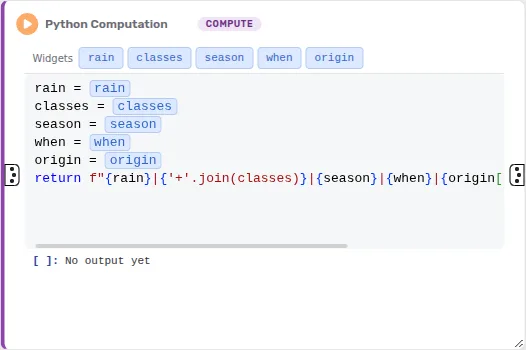
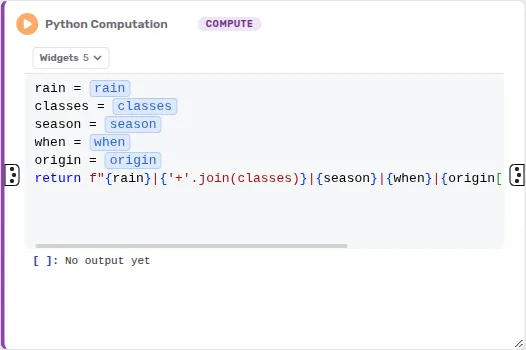
Chip row as the final header shows it: closed categories, a line per input, open lists, and re-cut stills

Changed region(s): [[0.0608, 0.1143, 0.6996, 0.2]]

diff --git a/site/scenarios.md b/site/scenarios.md
@@ -8,6 +8,7 @@ deeper:
   - { doc: docs/USAGE.md, anchor: scenarios, label: "Scenarios in the usage guide" }
   - { doc: docs/USAGE.md, anchor: the-interaction-node, label: "The Interaction node" }
   - { doc: docs/USAGE.md, anchor: comparing-scenarios, label: "Comparing scenarios" }
+  - { doc: docs/USAGE.md, anchor: several-inputs, label: "Several inputs and their chips" }
   - { doc: docs/USAGE.md, anchor: every-input-in-one-dataset, label: "Every input in one dataset" }
   - { doc: docs/USAGE.md, anchor: scenario-colors-and-order, label: "Scenario colors and order" }
   - { doc: docs/examples/06-back-bay-road-sunlight.md, label: "Example 06: Back Bay road sunlight when buildings change" }
@@ -107,11 +108,17 @@ The boxes come in the order the dataflow lists them. An input from no box comes 
 
 ## The chips above the spec
 
-Above a node's code or spec, one row lists every chip the node can use, by category, each with its count: **Inputs**, **Scenarios**, **Widgets**, **Selections** and **Shared**. A category shows only when it has chips. The categories start closed: click one to list its chips under the row, and click it again to close it. Several can be open, and a category stays open while the dataflow is open. Drag a chip's tag into the code or spec, or click it to put the chip at the cursor.
+Above a node's code or spec, one row lists every chip the node can use, by category, each with its count: **Inputs**, **Scenarios**, **Widgets**, **Selections** and **Shared**. A category shows only when it has chips. The categories start closed, each with a chevron pointing down. Click one to list its chips under the row, and its chevron points up; click it again to close it. Several can be open, and a category stays open on that node while the dataflow is open. On the canvas, the row and its open chips take at most half of the node's editor, and the chips scroll past that. Drag a chip's tag into the code or spec, or click it to put the chip at the cursor.
 
-- **Inputs:** a tag for each input, `input_0`, `input_1` and so on, whose arrow lists its columns once the node feeding it has run. In a Vega-Lite spec with an input, also the **inputs** tag, whose arrow lists the fields of the stacked rows, `scenario_name`, `scenario` and `__input__` first.
+- **Inputs:** a line for each input, `input_0`, `input_1` and so on, in circle order. In a Vega-Lite spec, the line of **inputs**, the stacked rows, comes last.
 - **Scenarios:** on a node with an input from a scenario box. In a Vega-Lite spec, first the boxes' swatches with their names, the tag of `[!! scenario colors !!]`, then **text colors** and **order**. In a Vega-Lite or Autark spec, a tag for each input, such as **input_1 ■ Twice as tall**, in the color its chip writes.
 - **Widgets**, **Selections** and **Shared:** the node's [widgets](/widgets/), its [selection tags](/widgets/#hand-a-node-what-you-selected) and the Parameter nodes' values.
+
+A line of **Inputs** holds a square button, the input's tag, and where the input comes from: its scenario box, or else the kind of node that feeds it. Once that node has run, the line also says what the input holds, such as **from Existing: 5 columns**, **from Autark: 5 layers** or **from Python Computation: 2 values, a tuple**. The line of **inputs** names the inputs it stacks and, once they have run, how many fields their rows carry, such as **input_0 and input_1, stacked: 8 fields**.
+
+Click a line's square button to open its list, indented under the line, and click it again to close it. An input's list holds its columns, and the list of **inputs** the fields of the stacked rows, `scenario_name`, `scenario` and `__input__` first. An input with layers, such as an Autark node's tables, lists a line for each layer: the layer's tag, then its columns, or **no columns**. Drag a column's tag where a column name goes. Several lists can be open, and each stays open on its node while the dataflow is open.
+
+<GuideFigure src="/media/scenarios/input-lines.webp" alt="A Vega-Lite chart's Inputs open, with input_0's columns listed under its line" caption="A Vega-Lite chart fed from a Data Pool, with Inputs open. The line of input_0 reads from Data Pool: 3 columns, and its list, open under it, holds geometry, accessibility and neighborhood_name. The line of inputs, input_0, stacked: 5 fields, comes last, closed." :w="526" :h="350" />
 
 A node with no input from a box has no **Scenarios**, and the hover of a scenario chip in its spec says what the chip writes there. On a node with no input, `[!! inputs !!]` is red until you connect one. `[!! inputs !!]` and the scenario chips are for specs: Python and JavaScript code takes neither.
 

diff --git a/site/widgets.md b/site/widgets.md
@@ -20,7 +20,7 @@ A widget is a value a node's code reads that you set in a form instead of in the
 
 1. Open the node's **Widgets** tab (the toolbox icon in its header) and click **Add widget**.
 2. Give it a name (letters, digits and underscores), a type, a label and a default. A choice, a checkbox group or a multi-select also takes its choices, and a number or a slider takes a minimum, a maximum, a step and units.
-3. Drag the widget's tag from the strip above the code into the code, or click the tag to put it at the cursor. It shows as a chip; point at the chip to see the value it stands for.
+3. Above the code or spec, click the **Widgets** category to list the tags of the node's widgets. Drag the widget's tag into the code, or click the tag to put it at the cursor. It shows as a chip; point at the chip to see the value it stands for.
 4. Set the value in the **Widgets** tab and run the node.
 
 <GuideFigure src="/media/widgets/add-widget.webp" alt="The Add widget form of a Python node" caption="The Add widget form for a slider labelled Rain: its type, label, minimum, maximum, step, units and default." :w="526" :h="350" />
@@ -31,7 +31,7 @@ A widget is a number, a slider, a text, a choice (a dropdown or radio buttons), 
 
 When the node runs, each chip is replaced by its value, written in the code's language: a season chip runs as `"winter"` in Python, and an opacity chip as `0.5` in a Vega-Lite spec. Inside a quoted text, a chip becomes the value's text. The code saves a chip as `[!! name !!]`.
 
-<GuideFigure src="/media/widgets/code-chips.webp" alt="Widget tags above a node's code and chips inside it" caption="Each widget's tag in the strip above the code, and the same widgets as chips in the code." :w="526" :h="350" />
+<GuideFigure src="/media/widgets/code-chips.webp" alt="A Python node's code with widget chips, under the closed Widgets category" caption="A Python node's code with its five widgets as chips. Above it, the Widgets category, closed, counts them: a click lists their tags." :w="526" :h="350" />
 
 Values are saved with the dataflow. Changing one marks the node as needing a new run, so **Run** and **Run All** run it again. With **View > Run stale nodes automatically** on, the change runs the node and the nodes below it by itself, half a second after the last change, so a slider drag runs them once. A chip whose name the node has no widget for stops the run with a message naming it.
 
@@ -40,7 +40,7 @@ Values are saved with the dataflow. Changing one marks the node as needing a new
 A **Parameter** node holds one widget that any node of the dataflow can read, such as a period or a region that several nodes use.
 
 1. Drag **Parameter** from the palette onto the canvas, give it a name, a type, a label and a default as for a widget, and click **Add parameter**.
-2. Its tag, **@name**, shows under **Shared** in the strip above every node's code. Drag it into the code, where it shows as an amber chip.
+2. Its tag, **@name**, shows under **Shared** above every node's code or spec, and in every node's **Widgets** tab. Drag it into the code, where it shows as an amber chip.
 3. Set the value in the Parameter node.
 
 A Parameter node has no connections. It lists the nodes whose code uses it, and changing its value marks them as needing a new run, or runs them when **Run stale nodes automatically** is on. **Edit** renames it, and their code follows the new name. Pinned to the [dashboard](/dashboards/), it shows its value.
@@ -53,7 +53,7 @@ A selection tag gives a node's code the rows you selected in a view: a brush or 
 
 1. Run the view, so its rows are known.
 2. In the reading node's **Widgets** tab, under **Selections**, click **Add selection**. Pick the view and the column that identifies its rows, such as `osm_id` or `building_id`, name the tag, and click **Add selection tag**.
-3. Drag the tag into the code, where it shows as a peach chip.
+3. Above the code, click the **Selections** category and drag the tag into the code, where it shows as a peach chip.
 4. Select in the view and run the node.
 
 The chip becomes the list of the selected rows' ids:

diff --git a/site/scout.md b/site/scout.md
@@ -101,6 +101,6 @@ Scout holds charts that compare scenarios: **Lines with a band**, **Curves by gr
 2. Drag a chart onto the canvas and connect each scenario's outcome to one of its input circles: each connection takes the next circle. Until the first one, the chart's `[!! inputs !!]` chip is red.
 3. In its **Widgets** tab, set the columns it plots: each column widget, such as `y` or `part`, takes the name of a column of its inputs. A new chart's widgets hold their own names, so the chart says which column its inputs lack until you set them. **Combine**, in Bars, Grouped bars, Lines, Pie and Lollipops, is how a scenario's rows are combined: `mean`, `sum`, `median`, `min`, `max` or `count`.
 
-A new chart opens with its template's spec on its Grammar tab, and the spec is yours to edit. The row above the spec lists the chips it can use (see [The chips above the spec](/scenarios/#the-chips-above-the-spec)).
+A new chart opens with its template's spec on its Grammar tab, and the spec is yours to edit. The row above the spec lists the chips it can use, in categories that open with a click (see [The chips above the spec](/scenarios/#the-chips-above-the-spec)).
 
 In "Nine ways to chart scenario comparisons", under **Tests** on the projects page, nine of these charts each draw one example table (see [Scenarios](/scenarios/#in-the-examples)).

diff --git a/site/dataflows.md b/site/dataflows.md
@@ -64,6 +64,8 @@ A node's header shows the play button, the node's title and kind, and its run st
 
 Click the title to rename the node; the gear beside it opens **Node settings**, for [making a reusable node](/authoring-nodes/). After the switch come a button that explains the node, **Pin to dashboard** for the dataflow's [dashboard](/dashboards/), **Minimize**, which folds the node into an icon that opens again with a click, and, at the right end, **Delete node**. **View > Minimize Nodes** folds them all, and **View > Expand Nodes** opens them again. Drag a node's bottom-right corner to resize it, and double-click a node where you would drag it, such as its header, to zoom the view onto it. For viewers of a shared dataflow, nodes keep their size and have no **Delete node**.
 
+Above the code or spec, one row lists every chip the node can use, in categories that start closed: **Inputs**, **Scenarios**, **Widgets**, **Selections** and **Shared**. Click a category to list its chips, then drag a chip's tag into the code or spec, or click the tag to put the chip at the cursor (see [The chips above the spec](/scenarios/#the-chips-above-the-spec)).
+
 ## Notes
 
 A **Note** node explains a part of the dataflow: a title and a short text on one of six colors. It has no inputs or outputs, and a run skips it.
